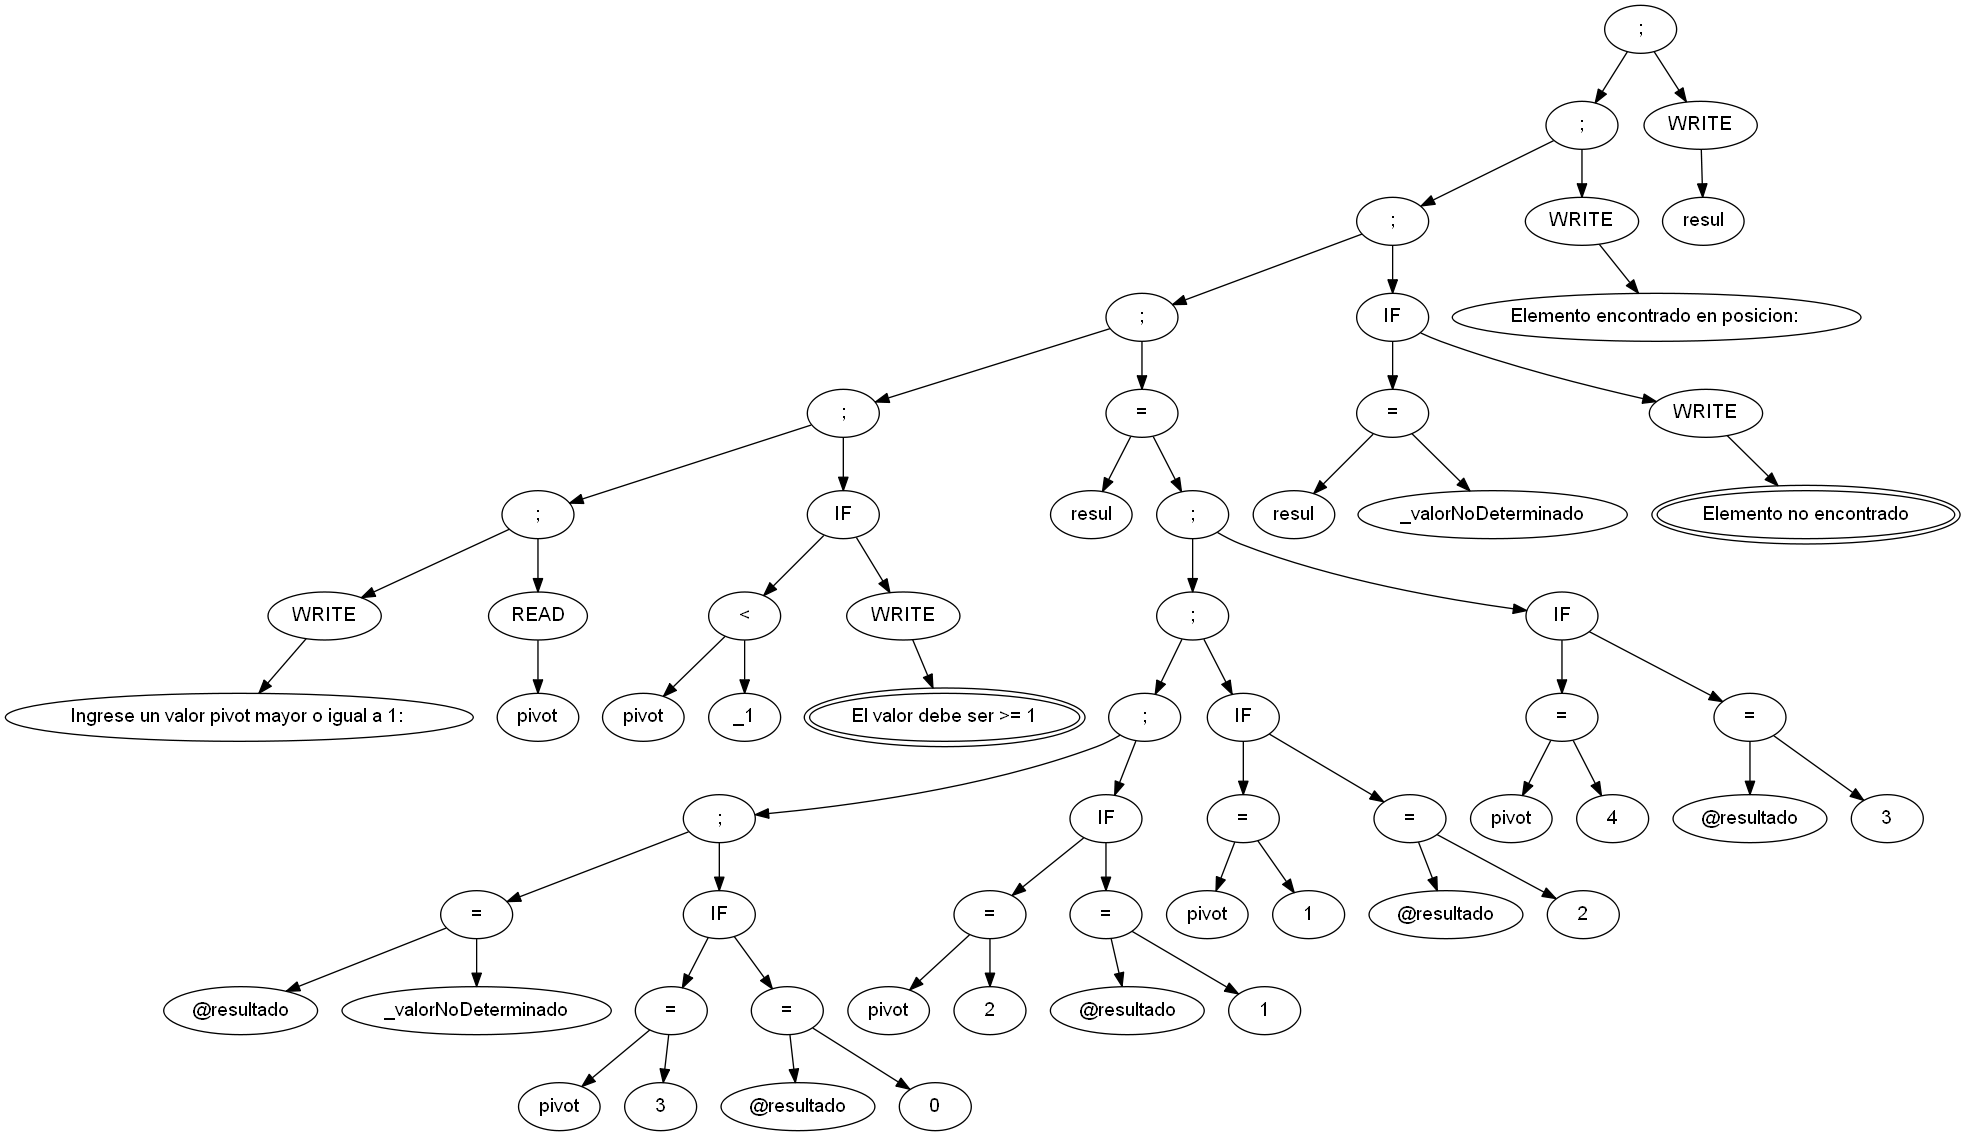
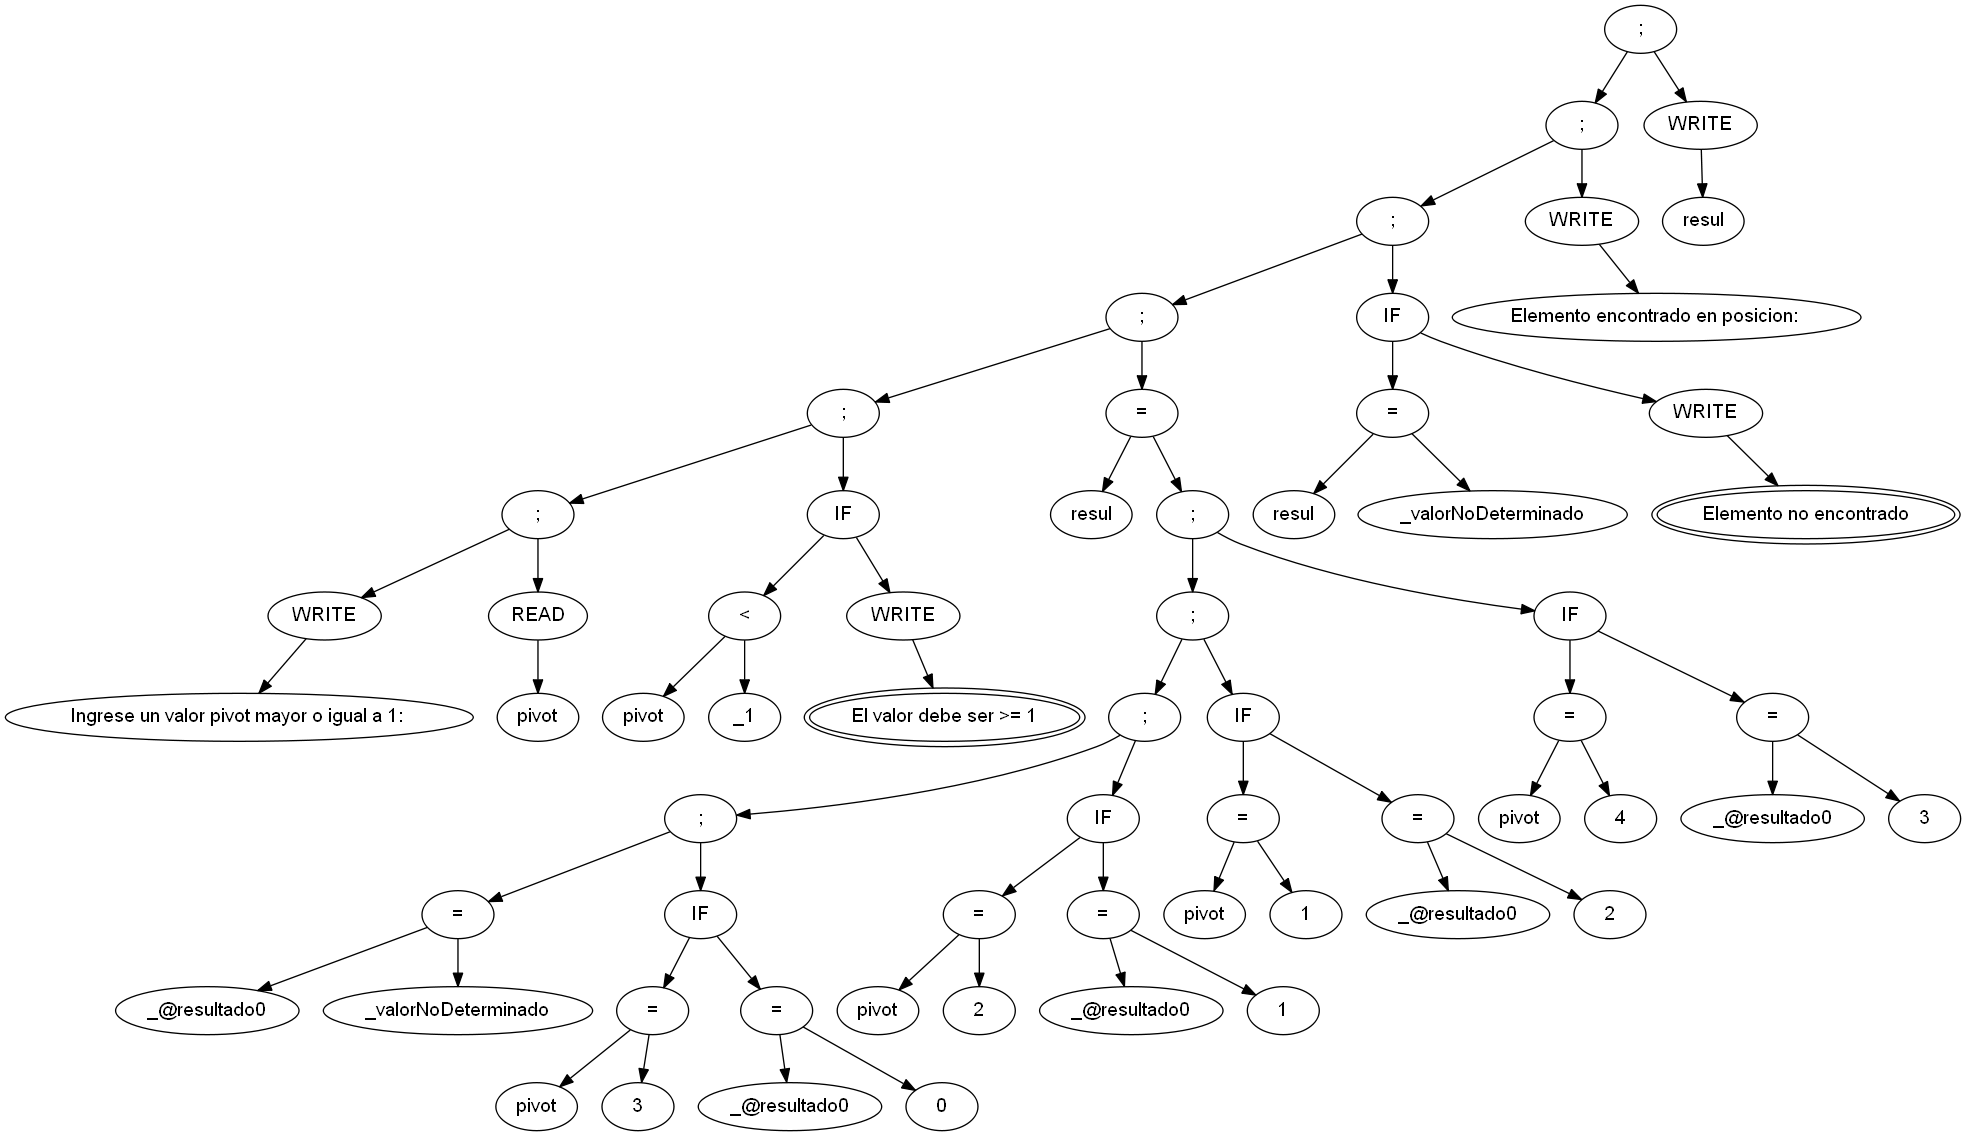
Utilizo distintas variables resultado, limpio lista

diff --git a/utils/ts.h b/utils/ts.h
@@ -29,7 +29,6 @@ typedef struct
     t_simbolo *primero;
 } t_tabla;
 
-void crearTablaTS();
 void inicializarTS();
 char *limpiarString(char *, const char *);
 int insertarTS(const char *, const char *, const char *, int, double);
@@ -37,18 +36,20 @@ t_data *crearDatos(const char *, const char *, const char *, int, double);
 void guardarTS();
 t_simbolo *getLexema(const char *);
 char *reemplazarString(char *, const char *);
+char *obtenerStringVariableResultado();
+void aumentarContadorVariableResultado();
+char *obtenerStringVariableResultadoTS();
+
 t_tabla *obtenerTablaTS();
 t_tabla tablaTS;
-
-int contadorString = 0;
-
+int contadorString = 0, variablesResultado = 0;
+char buffer[800];
 t_tabla *obtenerTablaTS()
 {
     return &(tablaTS);
 }
 void inicializarTS()
 {
-    crearTablaTS();
     insertarTS("_elemento_no_encontrado", CONST_STR, ELEMENTO_NO_ENCONTRADO, 0, 0);
     insertarTS("_valor_menor_a_1", CONST_STR, "\"El valor debe ser >= 1\"", 0, 0);
     insertarTS("_lista_vacia", CONST_STR, LISTA_VACIA, 0, 0);
@@ -56,35 +57,13 @@ void inicializarTS()
     insertarTS("_1", CONST_INT, "", 1, 0);
     insertarTS(VALOR_NO_DETERMINADO, CONST_INT, "", -1, 0);
 }
-void crearTablaTS()
-{
-    t_data *data = (t_data *)malloc(sizeof(t_data));
-    data = crearDatos("@resultado", TIPO_INT, "", 0, 0);
-
-    if (data == NULL)
-    {
-        return;
-    }
-
-    t_simbolo *nuevo = (t_simbolo *)malloc(sizeof(t_simbolo));
-
-    if (nuevo == NULL)
-    {
-        return;
-    }
-
-    nuevo->data = *data;
-    nuevo->next = NULL;
-    tablaTS.primero = nuevo;
-}
 
 int insertarTS(const char *nombre, const char *tipo, const char *valString, int valInt, double valDouble)
 {
-    printf("nombre: %s - valString %s - valInt %d", nombre, valString, valInt);
     t_simbolo *tabla = tablaTS.primero;
     char nombreCTE[300] = "_";
     strcat(nombreCTE, nombre);
-
+    printf("\nSOLICITUD PARA %s", nombreCTE);
     while (tabla)
     {
         if (strcmp(tabla->data.nombre, nombre) == 0 || strcmp(tabla->data.nombre, nombreCTE) == 0)
@@ -99,7 +78,7 @@ int insertarTS(const char *nombre, const char *tipo, const char *valString, int 
                 return 1;
             }
         }
-        else if (strcmp(tabla->data.tipo, CONST_INT) == 0 && strcmp(tipo, CONST_INT) == 0)
+        else if (strcmp(tabla->data.tipo, CONST_INT) == 0 && strcmp(tipo, CONST_INT) == 0 && strcmp(nombre, obtenerStringVariableResultadoTS()) != 0)
         {
 
             if (tabla->data.valor.valor_int == valInt)
@@ -153,7 +132,7 @@ t_data *crearDatos(const char *nombre, const char *tipo, const char *valString, 
     {
         return NULL;
     }
-
+    printf("\n SOLICITUD DE CREACION DE %s", nombre);
     data->tipo = (char *)malloc(sizeof(char) * (strlen(tipo) + 1));
     strcpy(data->tipo, tipo);
     if (strcmp(tipo, TIPO_STRING) == 0 || strcmp(tipo, TIPO_INT) == 0 || strcmp(tipo, TIPO_FLOAT) == 0)
@@ -195,6 +174,11 @@ t_data *crearDatos(const char *nombre, const char *tipo, const char *valString, 
                 sprintf(aux, "%s", "valorNoDeterminado");
                 strcat(full, aux);
             }
+            else if (strcmp(nombre, obtenerStringVariableResultadoTS()) == 0)
+            {
+                sprintf(aux, "%s", obtenerStringVariableResultadoTS());
+                strcat(full, aux);
+            }
             else
             {
                 sprintf(aux, "%d", valInt);
@@ -207,6 +191,8 @@ t_data *crearDatos(const char *nombre, const char *tipo, const char *valString, 
             data->nombreASM = (char *)malloc(sizeof(char) * (strlen(full) + 1));
 
             strcpy(data->nombreASM, full);
+
+            printf("\nResumen\n=========\nnombreASM: %s \nnombre: %s\nvalor: %d", data->nombreASM, data->nombre, data->valor.valor_int);
         }
         return data;
     }
@@ -319,4 +305,22 @@ char *reemplazarString(char *dest, const char *cad)
     dest[i] = '\0';
 
     return dest;
+}
+
+char *obtenerStringVariableResultado()
+{
+    sprintf(buffer, "@resultado%d", variablesResultado);
+
+    return buffer;
+}
+
+char *obtenerStringVariableResultadoTS()
+{
+    sprintf(buffer, "_@resultado%d", variablesResultado);
+
+    return buffer;
+}
+void aumentarContadorVariableResultado()
+{
+    variablesResultado++;
 }

diff --git a/utils/assembler.h b/utils/assembler.h
@@ -14,6 +14,7 @@ void generarAssemblerAsignacion(ast *root, FILE *archAssembler);
 void generarAssemblerAsignacionSimple(ast *root, FILE *archAssembler);
 
 int branchN = 0, branchElementoNoEncontrado = 0, branchPivotMenorAUno = 0;
+char tempBufferResultado[800];
 
 void generarAssembler(ast *_pProg, t_tabla *tablaTS)
 {
@@ -173,6 +174,11 @@ void generarAssemblerAsignacionSimple(ast *root, FILE *archAssembler)
     fprintf(archAssembler, "fld %s\n", lexema->data.nombreASM); //cargo el lado derecho
     lexema = getLexema(root->left->value);
     fprintf(archAssembler, "fstp %s\n", lexema->data.nombreASM); //lo guardo en la variable del lado izquierdo
+
+    if (strstr(lexema->data.nombreASM, "__@resultado"))
+    {
+        sprintf(tempBufferResultado, "%s", strstr(lexema->data.nombreASM, "__@resultado"));
+    }
 }
 
 void generarAssemblerPosicion(ast *root, FILE *archAssembler)
@@ -263,7 +269,7 @@ void crearSeccionData(FILE *archAssembler, t_tabla *tablaTS)
 void generarAssemblerAsignacion(ast *root, FILE *archAssembler)
 {
     generarAssemblerPosicion(root, archAssembler);
-    fprintf(archAssembler, "fld @resultado\n");
+    fprintf(archAssembler, "fld %s\n", tempBufferResultado);
 }
 
 void crearSeccionCode(FILE *archAssembler)

diff --git a/utils/list.h b/utils/list.h
@@ -24,6 +24,7 @@ typedef struct
 t_list listaSimb;
 
 int insertarLista(const int cte, const int posicion);
+void limpiarLista();
 
 int insertarLista(const int cte, const int posicion)
 {
@@ -74,4 +75,16 @@ int insertarLista(const int cte, const int posicion)
     }
 
     return posicion;
+}
+
+void limpiarLista()
+{
+    t_simbolo_list *pElim = listaSimb.primero;
+
+    while (listaSimb.primero)
+    {
+        listaSimb.primero = listaSimb.primero->next;
+        free(pElim);
+        pElim = listaSimb.primero;
+    }
 }

diff --git a/utils/tools.h b/utils/tools.h
@@ -11,3 +11,4 @@
 #define TIPO_INT "INT"
 #define TIPO_FLOAT "FLOAT"
 #define TIPO_STRING "STRING"
+#define RESULTADO "@resultado"
